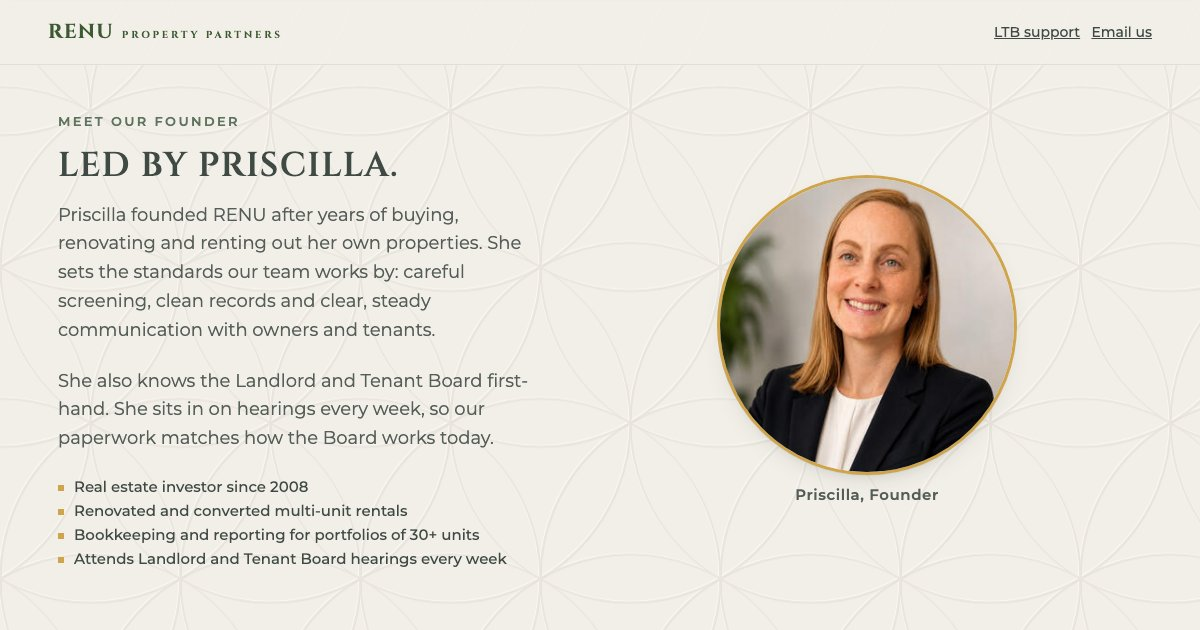
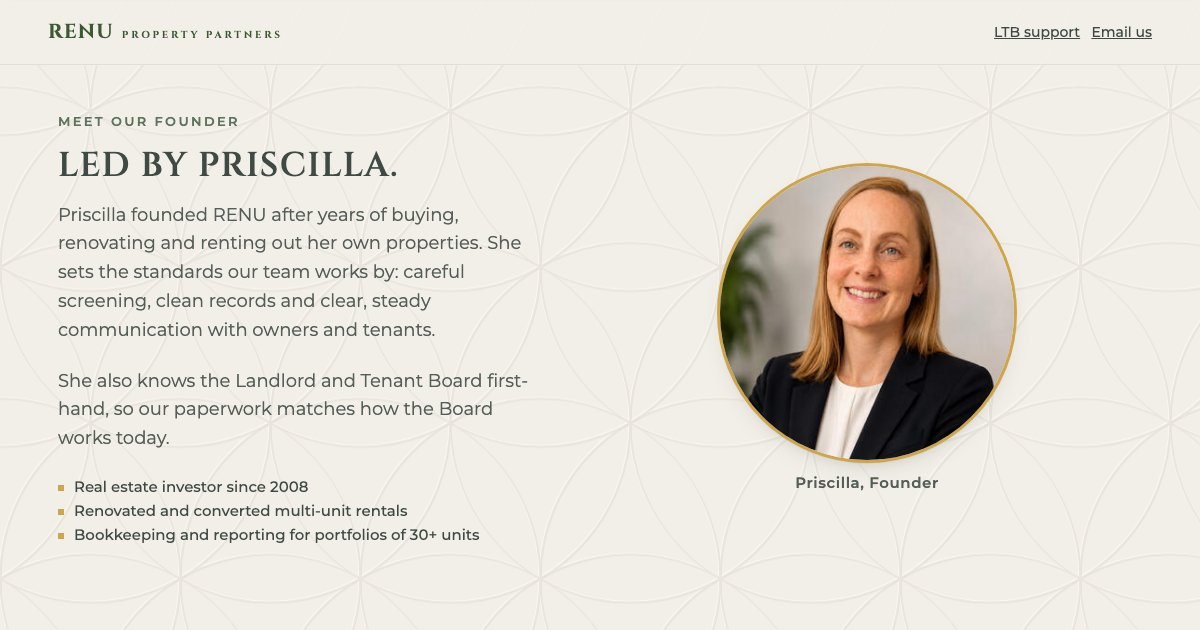
Remove weekly-hearings line (Pea's call) from page, llms.txt, share image

diff --git a/index.html b/index.html
@@ -136,7 +136,7 @@ nav a{color:inherit}
   <section class="ch" id="ways"><span class="k">Ways to work with us</span><h2>Placement, management or Board help.</h2><ul class="proof"><li><b>Tenant placement:</b> we find, screen and sign your tenant.</li><li><b>Full management:</b> we run the property for you.</li><li><b>LTB support:</b> we help with Board paperwork and hearing prep.</li></ul><div style="margin-top:22px"><a class="btn" href="#contact">Talk to us about your property</a></div></section>
  </div>
 </div>
-<section class="about" id="priscilla"><div><span class="k">Meet our founder</span><h2>Led by Priscilla.</h2><p>Priscilla founded RENU after years of buying, renovating and renting out her own properties. She sets the standards our team works by: careful screening, clean records and clear, steady communication with owners and tenants.</p><p>She also knows the Landlord and Tenant Board first-hand. She sits in on hearings every week, so our paperwork matches how the Board works today.</p><ul class="proof"><li>Real estate investor since 2008</li><li>Renovated and converted multi-unit rentals</li><li>Bookkeeping and reporting for portfolios of 30+ units</li><li>Attends Landlord and Tenant Board hearings every week</li></ul></div>
+<section class="about" id="priscilla"><div><span class="k">Meet our founder</span><h2>Led by Priscilla.</h2><p>Priscilla founded RENU after years of buying, renovating and renting out her own properties. She sets the standards our team works by: careful screening, clean records and clear, steady communication with owners and tenants.</p><p>She also knows the Landlord and Tenant Board first-hand, so our paperwork matches how the Board works today.</p><ul class="proof"><li>Real estate investor since 2008</li><li>Renovated and converted multi-unit rentals</li><li>Bookkeeping and reporting for portfolios of 30+ units</li></ul></div>
  <div class="photos"><figure class="solo"><img class="duo" src="people/team_1.jpg" width="316" height="316" alt="Priscilla, founder of RENU Property Partners" loading="lazy"><figcaption>Priscilla, Founder</figcaption></figure></div></section>
 <section class="about" id="ltb"><div><span class="k">LTB support</span><h2>Help with the Landlord and Tenant Board.</h2><p>Board paperwork is easy to get wrong, and one mistake can mean starting over. We help landlords get it right the first time.</p><ul class="proof"><li>The right form, filled in and served on time</li><li>Rent records, notices and evidence put in order</li><li>Hearing prep, so you know what to expect</li></ul></div>
  <div><p>Already have a tenant problem? Email us what is going on. We will tell you how we can help.</p><a class="btn" href="#contact">Ask about LTB support</a></div></section>
